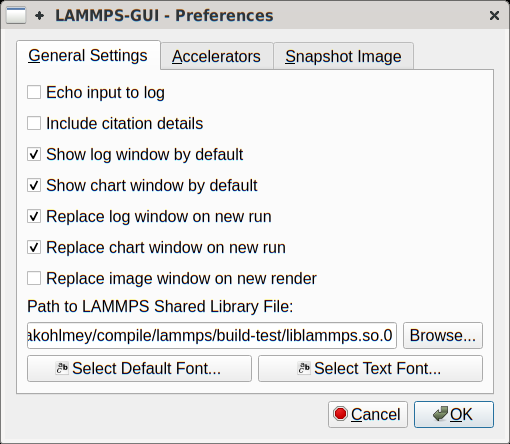
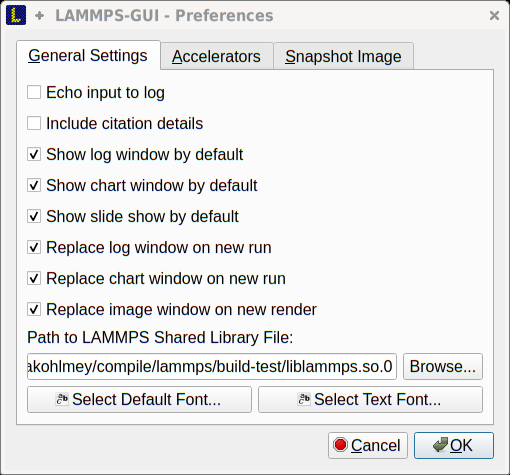
update docs for LAMMPS GUI v1.4

Changed region(s): [[0.0294, 0.1757, 0.9706, 0.9662], [0.0, 0.0, 1.0, 0.1757]]

diff --git a/doc/src/Howto_lammps_gui.rst b/doc/src/Howto_lammps_gui.rst
@@ -1,7 +1,7 @@
 Using the LAMMPS GUI
 ====================
 
-This document describes **LAMMPS GUI version 1.3**.
+This document describes **LAMMPS GUI version 1.4**.
 
 -----
 
@@ -168,7 +168,7 @@ Chart Window
 ------------
 
 By default, when starting a run, a "Chart Window" will open that displays charts
-of thermodynamic output of the LAMMPS calculation as shown below.
+of the thermodynamic output of the LAMMPS calculation as shown below.
 
 .. image:: JPG/lammps-gui-chart.png
    :align: center
@@ -190,6 +190,22 @@ Data from multiple run commands will be combined into a single data set
 unless the format, number, or names of output columns are changed or the
 current time step is reset with :doc:`reset_timestep <reset_timestep>`
 or a :doc:`clear <clear>` command is issued.
+
+Image Slide Show
+----------------
+
+By default, in case the LAMMPS input contains a :doc:`dump image
+<dump_image>` command, a "Slide Show" window will open which loads and
+displays the images created by LAMMPS as they are written.
+
+.. image:: JPG/lammps-gui-slideshow.png
+   :align: center
+   :scale: 50%
+
+The various buttons at the bottom right of the window allow to either
+single step through the list of images or play an animation (as a
+continuous loop or once from first to last).  It is also possible to
+zoom in or zoom out.
 
 Variable Info
 -------------
@@ -405,7 +421,7 @@ General Settings:
 - *Echo input to log:* when checked, all input commands, including
   variable expansions, will be echoed to the log window. This is
   equivalent to using `-echo screen` at the command line.  There is no
-  log *file* produced since it always uses `-log none`.
+  log *file* produced by default, since LAMMPS GUI uses `-log none`.
 - *Include citation details:* when checked full citation info will be
   included to the log window.  This is equivalent to using `-cite
   screen` on the command line.
@@ -414,6 +430,9 @@ General Settings:
 - *Show chart window by default:* when checked, the thermodynamic
   output of a LAMMPS run will be collected and displayed in a chart
   window as line graphs.
+- *Show slide show window by default:* when checked, a slide show
+  window will be shown with images from a dump image command, if
+  present, in the LAMMPS input.
 - *Replace log window on new run:* when checked, an existing log
   window will be replaced on a new LAMMPS run, otherwise each run will
   create a new log window.
@@ -527,8 +546,8 @@ instead of Ctrl/Control).
      - Close Window
      - Ctrl-A
      - Select All
-     - Ctrl-Shift-Enter
-     - Run Current File
+     - Ctrl-L
+     - Slide Show
      - Ctrl-Shift-W
      - Show Variables
 
